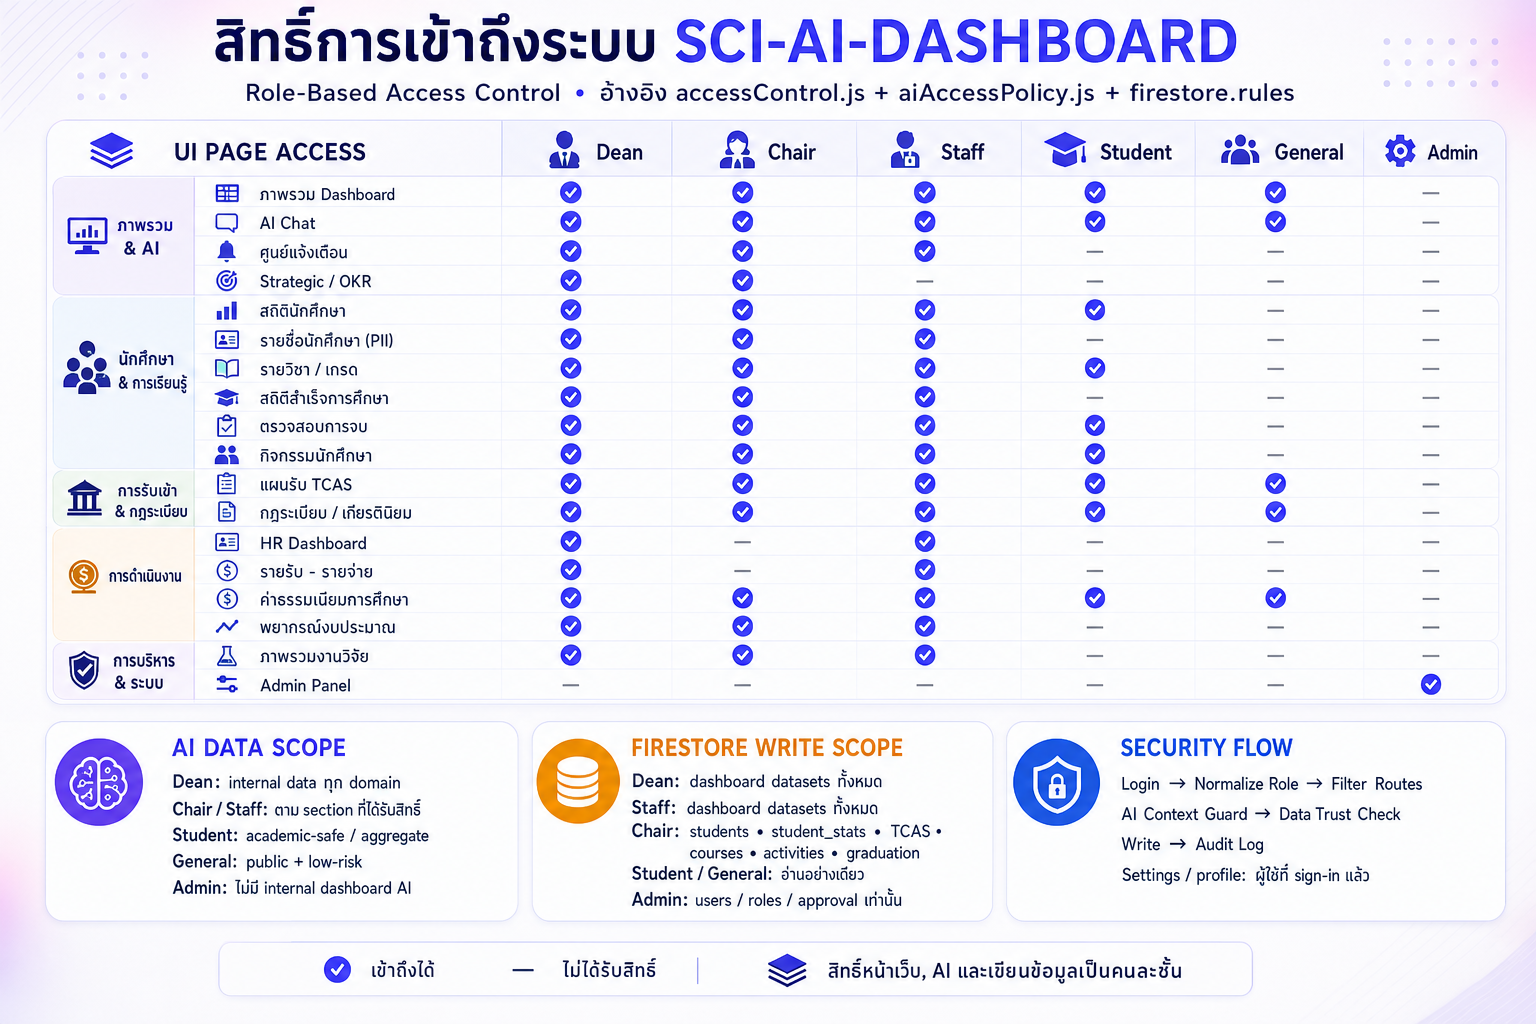
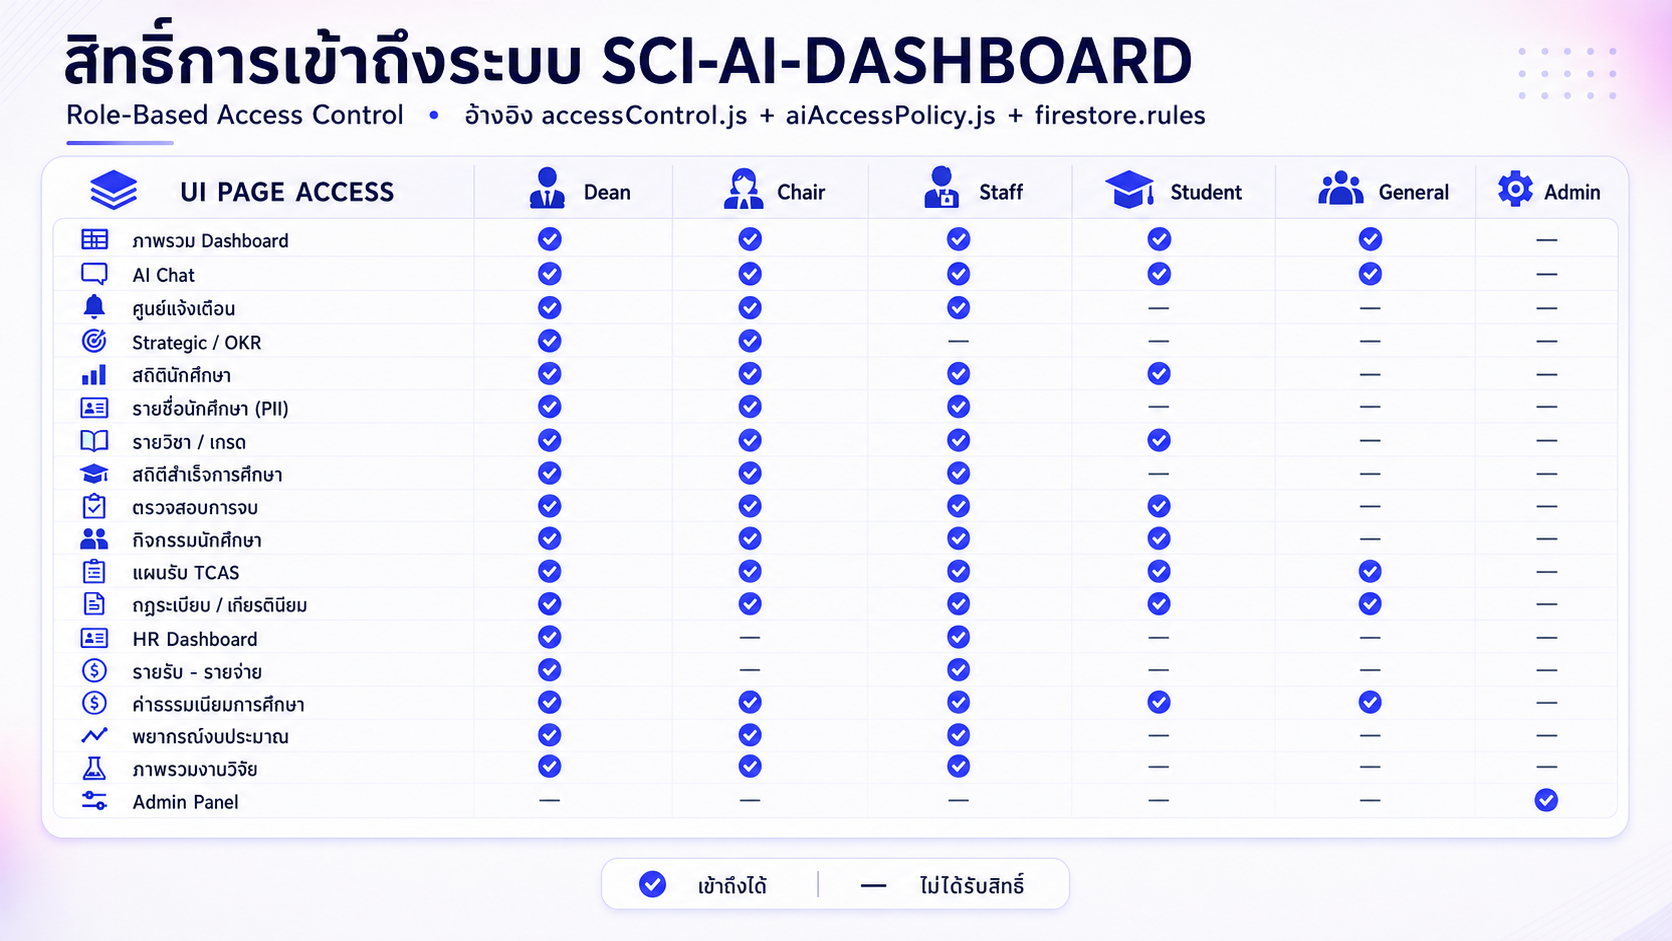
docs: simplify role access matrix visual

diff --git a/docs/sci-ai-dashboard-role-access-2026.html b/docs/sci-ai-dashboard-role-access-2026.html
@@ -50,7 +50,9 @@
     .dot.yes { background: var(--blue); }
     .dot.no { color: #77809b; background: #edf0f8; }
     .dot.write { background: var(--amber); }
-    .grid { display: grid; grid-template-columns: minmax(0, 1fr) 350px; gap: 18px; align-items: start; }
+    .grid { display: block; }
+    /* The published view is intentionally table-only; the matrix is the single source of truth. */
+    .side { display: none !important; }
     .panel { border: 1px solid var(--line); border-radius: 20px; background: var(--surface); box-shadow: var(--shadow); overflow: hidden; }
     .panel-head { display: flex; align-items: center; justify-content: space-between; gap: 12px; padding: 17px 20px; border-bottom: 1px solid var(--line); background: linear-gradient(90deg, rgba(235,239,255,.85), rgba(255,255,255,.95)); }
     .panel-head h2 { margin: 0; color: var(--navy); font-size: 19px; }
